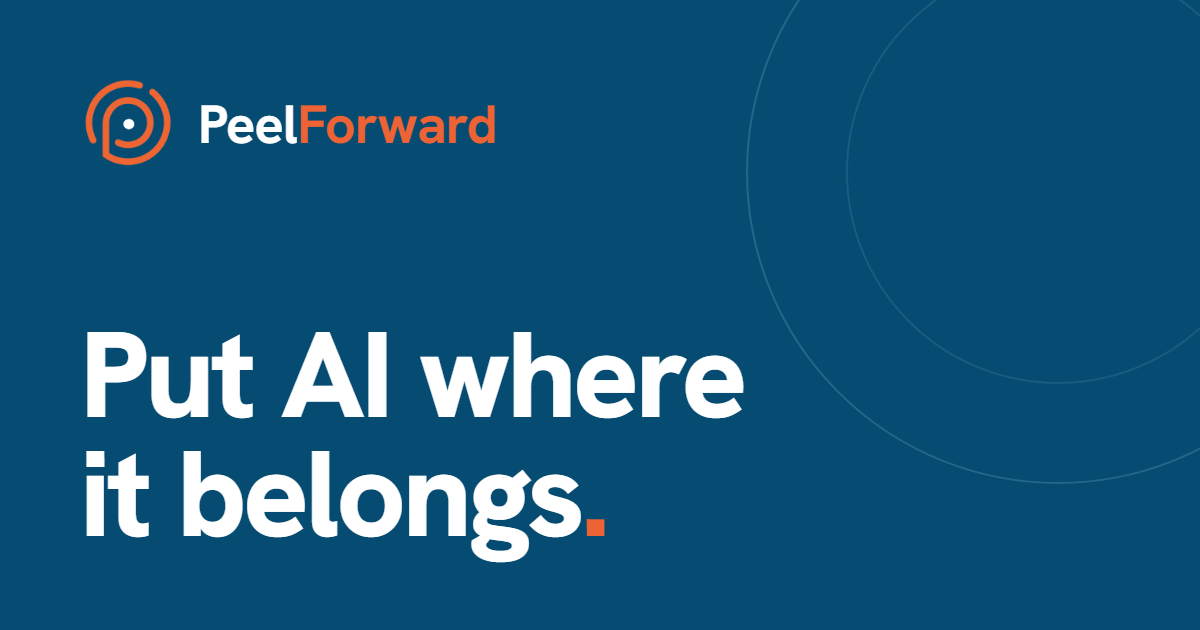
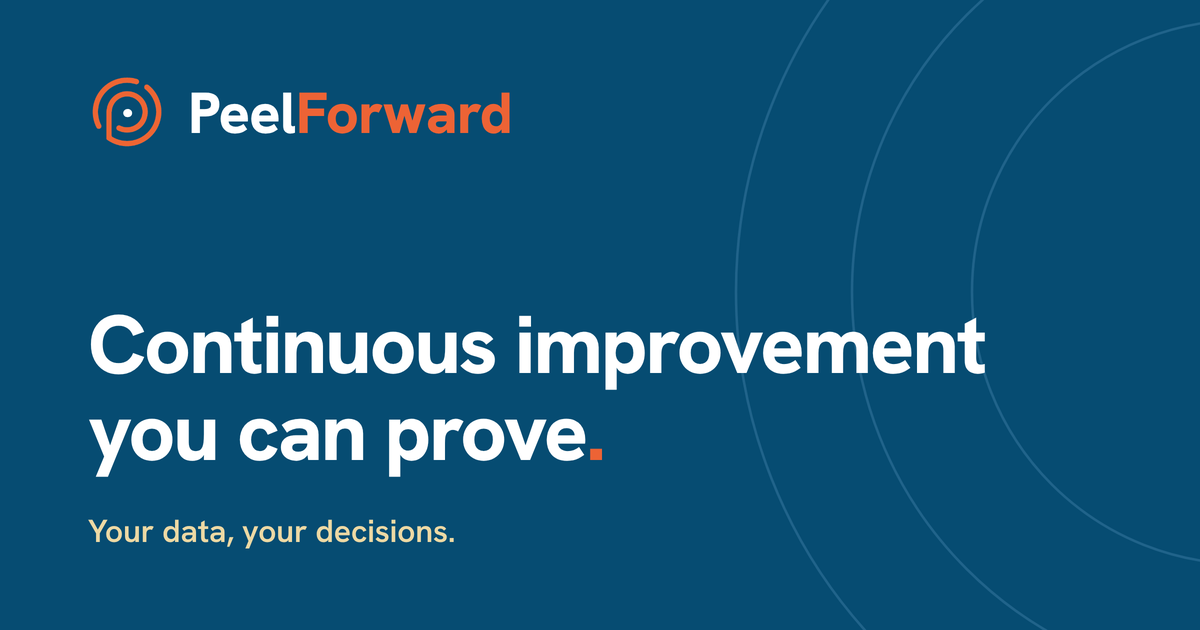
feat: new social card for the continuous improvement message (#24)
The card still said "Put AI where it belongs," which was the old
homepage headline. The homepage now leads with continuous improvement
and proof, so the card and its alt text were describing a page that no
longer exists.

og-image.png now reads "Continuous improvement you can prove" with
"Your data, your decisions." under it, keeping the navy field, the
spiral mark and wordmark, the orange full stop and the faint arcs.
The og:image:alt in Layout.astro changes in the same commit, since an
alt that describes the old card is worse than no alt at all.

Claude-Session: https://claude.ai/code/session_012csZSbnPXV3hmFWNz4eMGu

Changed region(s): [[0.0617, 0.4825, 0.8325, 0.9048], [0.0617, 0.1206, 0.4317, 0.2714], [0.8633, 0.754, 0.8942, 0.7841]]

diff --git a/LESSONS.md b/LESSONS.md
@@ -21,4 +21,7 @@ Format: `- YYYY-MM-DD | <area> | <observation>`
 - 2026-10-07 | global css | global.css sets `a { color: inherit; text-decoration: none }`, so a bare text link outside a .btn renders as plain body text with no affordance at all; the new Safe AI section's FAQ link needed its own rule, and navy text with an orange border-bottom is the pattern to copy, because orange body text at --fs-106 is only about 3.3:1 on white and fails contrast
 - 2026-10-07 | page rhythm | two adjacent sections that both carry .section padding-block stack to roughly 232px of gap, which reads as a void when both sit on the same white background; the old homepage hid this between the readiness and flow sections with the .flow-transition sentence, so removing that line in the CI-first reorder exposed the gap and both sides now trim to --section-pad-tight
 - 2026-10-07 | copy | homepage claims about data handling are pinned to clauses of the Beta Test Data Processing Addendum and the frontmatter comment in index.astro names which clause backs which card; the previous wording said the platform never writes back to customer systems, which DPA 9.6 and 13.3 contradict, so widen a claim in the DPA before widening it on the page
+- 2026-10-07 | og image | og-image.png and the og:image:alt in Layout.astro are one unit and must change in the same commit, or the alt describes a card that no longer exists; the card is navy with the spiral mark and wordmark top left, a two line headline bottom left with an orange full stop, a sand supporting line under it, and three faint sky arcs at 20 percent alpha swept off the right edge
+- 2026-10-07 | og image | this box carries no Hanken Grotesk and the proxy blocks fonts.googleapis.com, so rendering a brand image means `npm pack @fontsource/hanken-grotesk`, pointing @font-face at the extracted woff2 by file URL, and shooting the page with the globally installed Playwright; shoot at deviceScaleFactor 2 and downsample to 1200x630 with Lanczos, because peel-icon-white-dot.png is a 991px raster shown at 78px and a straight 1x shot renders its inner dot as a smear
+- 2026-10-07 | harness | WebFetch caches per URL and a changed query string does not reliably miss that cache, so it is the wrong tool for confirming a deploy; after a Railway deploy the honest checks are the deployment record and the access log, and the decisive one is the content hash of the built CSS, since `npm run build` on the old homepage emits index.BTU5K-te.css and on the new one index.BwkdWz39.css, so the filename the container serves names the commit it is serving
 - 2026-10-07 | harness | `git clone --depth 1` writes a single-branch refspec, `+refs/heads/main:refs/remotes/origin/main`, so a feature branch pushed from that clone lands on GitHub but gets no `refs/remotes/origin/<branch>` ref locally and `git push -u` cannot store the upstream; the stop hook then reports "has N unpushed commit(s) and no remote branch" for a branch that is fully pushed, and `git ls-remote --heads origin <branch>` is the check that settles it; fix the clone, not the history, with `git config --unset-all remote.origin.fetch`, `git config --add remote.origin.fetch '+refs/heads/*:refs/remotes/origin/*'`, `git fetch --depth=1 origin <branch> main`, then `git branch --set-upstream-to=origin/<branch>`
